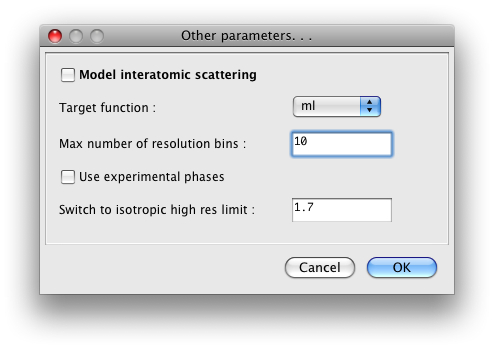
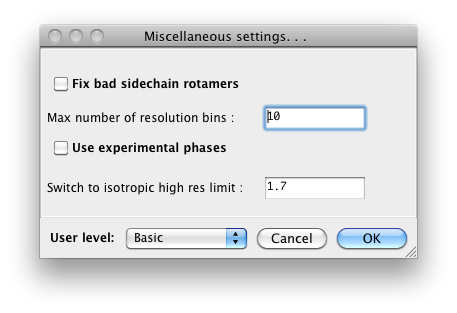
added create_maps doc, updated other gui pages

Changed region(s): [[0.0613, 0.0575, 0.9497, 0.9201], [0.5514, 0.2588, 0.8271, 0.4601], [0.5821, 0.5463, 0.7965, 0.6326]]

diff --git a/phenix_documentation.html b/phenix_documentation.html
@@ -183,6 +183,11 @@ td {font-family: verdana, helvetica, arial, sans-serif; font-size: 0.9em}
     </LI>
 
     <LI><A
+    href="create_maps.htm">Generating electron density maps
+    </A>
+    </LI>
+
+    <LI><A
     href="pymol.htm">PyMOL in PHENIX
     </A>
     </LI>
